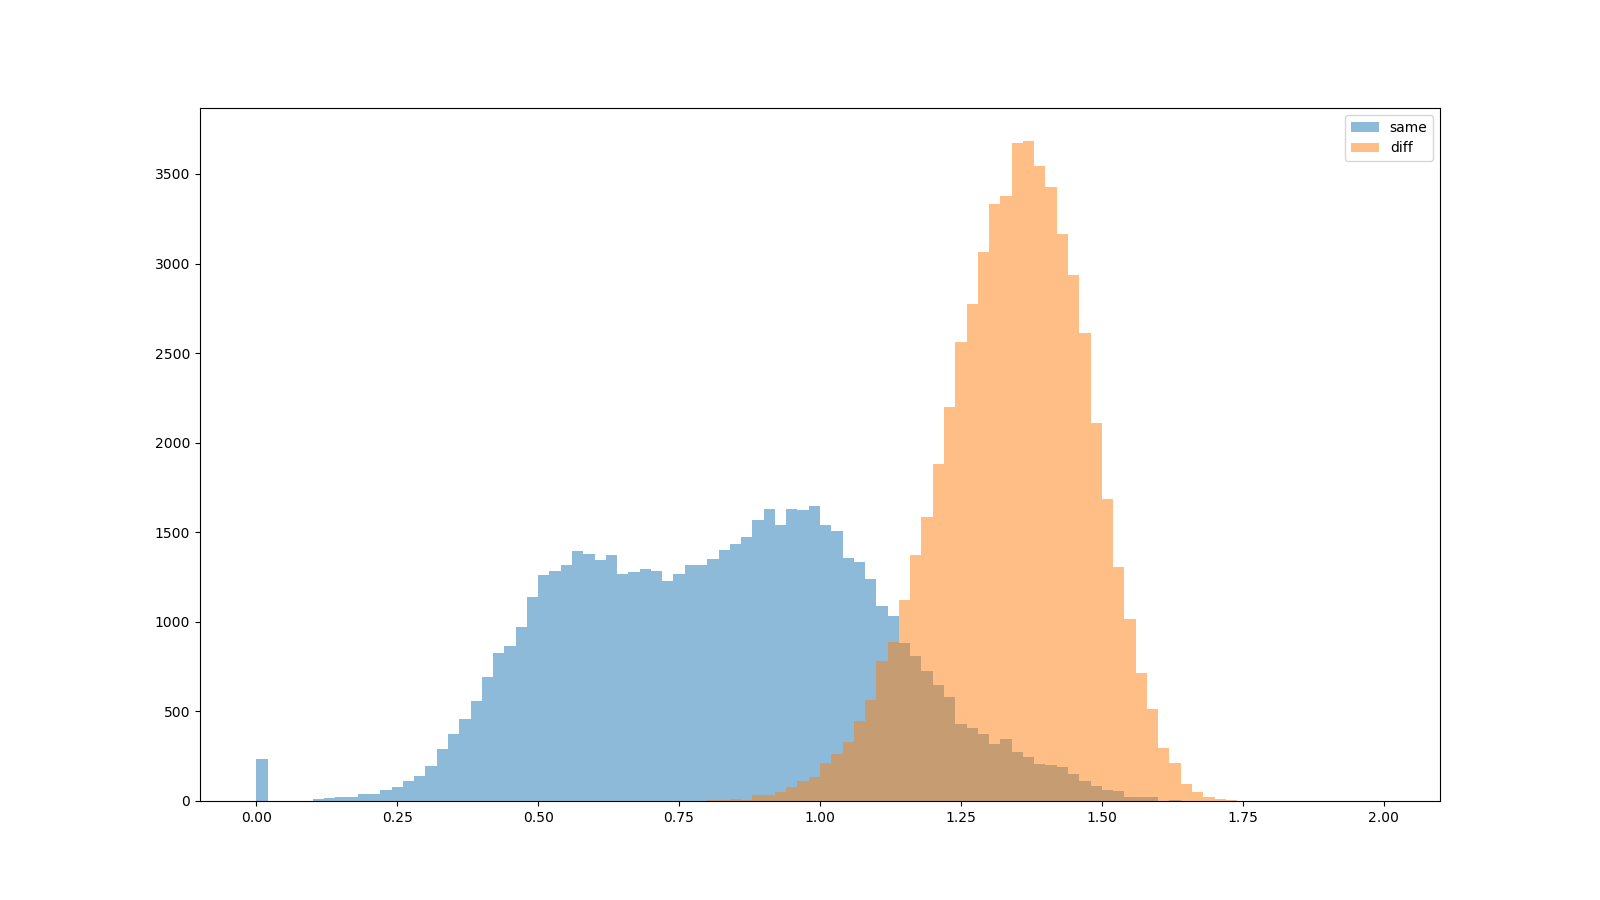
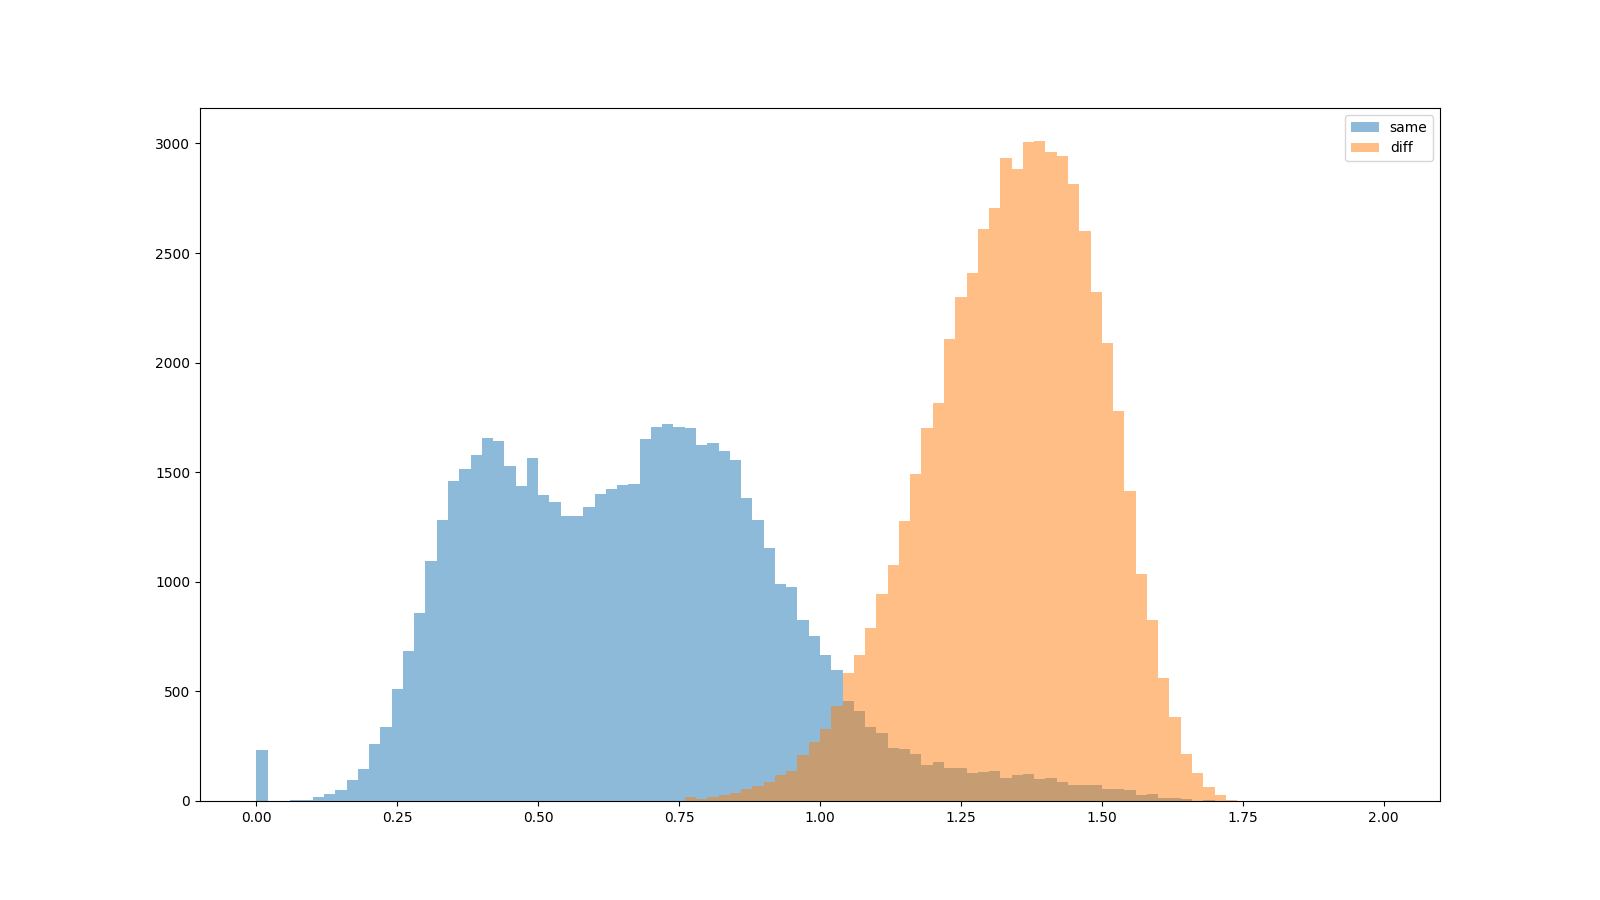
final version for alan

diff --git a/Code/main_test.py b/Code/main_test.py
@@ -32,58 +32,41 @@ if __name__ == "__main__":
     scheduler_name = 'multistep'
     # sgd or None(adam) or rmsprop
     optimizer_type = None
-    num_epochs = 0
+    num_epochs = 20
     eval_every = 1000
     # margin for triplet loss
     margin=2
     # name to open or save the model
-    name = 'facenet_best.pth'
+    name = 'arcface1.pt'
     load_local_model = False
 
     # os.environ['CUDA_LAUNCH_BLOCKING']='1'
 
     # device: cpu or cuda
-    os.environ['CUDA_VISIBLE_DEVICES']='3' # specify which gpu you want to use
-    # device = torch.device('cuda:0' if torch.cuda.is_available() else 'cpu')
-    device = torch.device('cpu')
+    os.environ['CUDA_VISIBLE_DEVICES']='2' # specify which gpu you want to use
+    device = torch.device('cuda:0' if torch.cuda.is_available() else 'cpu')
     print("Device:",device)
 
-    # read scv
-    df_train = pd.read_csv('../Data/train2.csv')
-    df_valid = pd.read_csv('../Data/valid.csv')
     df_eval1 = pd.read_csv('../Data/eval_same.csv')
     df_eval2 = pd.read_csv('../Data/eval_diff.csv')
     df_test = pd.read_csv('../Data/test.csv')
 
-    # label_to_samples
-    label_to_samples = samples(df_train)
-
-    # dataset, sampler and dataloader
-    train_dataset = TripletDataset(df_train, mode='train', label_to_samples=label_to_samples)
-    valid_dataset = TripletDataset(df_valid, mode='valid')
     eval_dataset1 = TripletDataset(df_eval1, mode='eval')
     eval_dataset2 = TripletDataset(df_eval2, mode='eval')
     test_dataset = TripletDataset(df_test, mode='test')
 
-    train_sampler = get_Sampler(sampler, train_dataset, p=8, k=16)
-    train_loader = DataLoader(train_dataset, batch_size=BATCH_SIZE, num_workers=NUM_WORKERS, drop_last=False, sampler=train_sampler)
-    valid_loader = DataLoader(valid_dataset, batch_size=BATCH_SIZE, num_workers=NUM_WORKERS, drop_last=False)
     eval_loader1 = DataLoader(eval_dataset1, batch_size=BATCH_SIZE, num_workers=NUM_WORKERS, drop_last=False)
     eval_loader2 = DataLoader(eval_dataset2, batch_size=BATCH_SIZE, num_workers=NUM_WORKERS, drop_last=False)
     test_loader = DataLoader(test_dataset, batch_size=BATCH_SIZE, num_workers=NUM_WORKERS, drop_last=False)
 
-
     # model, optimizer, scheduler
-    facenet = FaceNet(model_name=model_name, pool=pool, embedding_size=embedding_size, dropout=dropout, pretrain=pretrain, device=device).to(device)
-    # facenet = torch.nn.DataParallel(facenet, device_ids=[0,1])
-    optimizer = get_Optimizer(facenet, optimizer_type, lr, weight_decay) # optimizer
-    if load_local_model:
-        load(name, facenet, optimizer)
-        temp = name.split('.')
-        name = temp[0] + '_new.' + temp[1]
-    scheduler = get_Scheduler(optimizer, lr, scheduler_name) # scheduler
+    # facenet = FaceNet(model_name=model_name, pool=pool, embedding_size=embedding_size, dropout=dropout, pretrain=pretrain, device=device).to(device)
+    # optimizer = get_Optimizer(facenet, optimizer_type, lr, weight_decay) # optimizer
+    # load(name, facenet, optimizer)
 
-    # train
-    # train(facenet,train_loader,valid_loader,eval_loader1,eval_loader2,optimizer,scheduler,num_epochs,eval_every,margin,device,name)
+    facenet = torch.load('../Model/arcface1.pt')
+    device = torch.device('cpu')
+
+    # evaluate & test
     dist_threshold = evalulate(facenet, eval_loader1, eval_loader2, device)
-    test(facenet,test_loader,dist_threshold,device)
+    # test(facenet,test_loader,dist_threshold,device)

diff --git a/Code/train.py b/Code/train.py
@@ -6,14 +6,26 @@ from test import result
 import matplotlib.pyplot as plt
 import numpy as np
 
-def save(save_path, model, optimizer):
+# def save(save_path, model, optimiz er):
+#     if save_path==None:
+#         return
+#     torch.save({
+#         'model_state_dict': model.state_dict(),
+#         'optimizer_state_dict': optimizer.state_dict()
+#     }, '../Model/' + save_path)
+#     print('Model saved to ==> {../Model/save_path}')
+
+def save(save_path, model, optimizer=None, scheduler=None):
     if save_path==None:
         return
-    torch.save({
-        'model_state_dict': model.state_dict(),
-        'optimizer_state_dict': optimizer.state_dict()
-    }, '../Model/' + save_path)
-    print('Model saved to ==> {../Model/save_path}')
+    checkpoint = {
+        'model': model,
+        'optimizer': optimizer,
+        'scheduler': scheduler,
+    }
+    save_path = '../Model/' + save_path
+    torch.save(checkpoint, save_path)
+    print(f'Model saved to ==> {save_path}')
 
 def load(name, model, optimizer):
     checkpoint = torch.load('../Model/' + name)
@@ -33,11 +45,15 @@ def train(model,train_loader,valid_loader,valid_loader1,valid_loader2,optimizer,
     best_IOU = 1
     #train_average_margin = AverageMeter()
     total_step = len(train_loader)*num_epochs
+    count = 0
     print(f'total steps: {total_step}')
     for epoch in range(num_epochs):
         print(f'epoch {epoch+1}')
         #losses = []
         for _, data in enumerate(tqdm(train_loader)):
+            if count > 0:
+                break
+            count += 1
             model.train()
             inputs = data['image'].to(device) # inputs
             target = data['target'].to(device) # targets
@@ -68,6 +84,8 @@ def train(model,train_loader,valid_loader,valid_loader1,valid_loader2,optimizer,
         dist2 = result(model,valid_loader2,device)
         same_hist = plt.hist(dist1, 100, range=[np.floor(np.min([dist1.min(), dist2.min()])),np.ceil(np.max([dist1.max(), dist2.max()]))], alpha=0.5, label='same')
         diff_hist = plt.hist(dist2, 100, range=[np.floor(np.min([dist1.min(), dist2.min()])),np.ceil(np.max([dist1.max(), dist2.max()]))], alpha=0.5, label='diff')
+        plt.legend(loc='upper right')
+        plt.savefig('../Result/distribution_epoch'+str(epoch+1)+'.png')
         difference = same_hist[0] - diff_hist[0]
         difference[:same_hist[0].argmax()] = np.Inf
         difference[diff_hist[0].argmax():] = np.Inf
@@ -75,8 +93,6 @@ def train(model,train_loader,valid_loader,valid_loader1,valid_loader2,optimizer,
         overlap = np.sum(dist1>=dist_threshold) + np.sum(dist2<=dist_threshold)
         IOU = overlap / (dist1.shape[0] * 2 - overlap)
         print('dist_threshold:',dist_threshold,'overlap:',overlap,'IOU:',IOU)
-        plt.legend(loc='upper right')
-        plt.savefig('../Result/distribution_epoch'+str(epoch+1)+'.png')
         plt.clf()
 
         epoch_loss_list['train'].append(train_loss.avg)
@@ -94,7 +110,7 @@ def train(model,train_loader,valid_loader,valid_loader1,valid_loader2,optimizer,
 
         if IOU < best_IOU:
             best_IOU = IOU
-            save(name, model, optimizer)
+            save(name, model, optimizer, scheduler)
 
         train_loss.reset()
         valid_loss.reset()

diff --git a/Code/model.py b/Code/model.py
@@ -116,3 +116,69 @@ class FaceNet(nn.Module):
         # neck
         embeddings = self.neck(x)
         return embeddings
+
+# for arcface
+
+
+class ArcMarginProduct(nn.Module):
+    def __init__(self, in_features, out_features):
+        super().__init__()
+        self.weight = nn.Parameter(torch.Tensor(out_features, in_features))
+        self.reset_parameters()
+
+    def reset_parameters(self):
+        nn.init.xavier_uniform_(self.weight)
+
+    def forward(self, features):
+        cosine = F.linear(F.normalize(features), F.normalize(self.weight))
+        return cosine
+
+class FaceNet2(nn.Module):
+    def __init__(self, num_classes, model_name=None, pool=None, dropout=0.0, embedding_size=512, device='cuda', pretrain=True):
+        super(FaceNet2, self).__init__()
+        # Backbone (backbone)
+        # three models choice 1. SE-ResNeXt101 2.EfficientNetB7 3.InceptionResnetV1 (Pre-trained for face recog.)
+        self.model_name = model_name
+
+        # model
+        if(model_name=='resnet'):
+            self.model = SEResNeXt101(pretrain)
+        elif(model_name=='effnet'):
+            self.model = EfficientNetEncoderHead(depth=3, pretrain=pretrain)
+        else:
+            self.model = InceptionResnet(device, pool=pool, dropout=dropout, pretrain=pretrain)
+
+        # global pooling
+        if(pool == "gem"):
+            # Generalizing Pooling
+            self.global_pool = GeM(p_trainable=True)
+        else:
+            # global average pooling
+            self.global_pool = nn.AdaptiveAvgPool2d(1)
+        # neck
+        self.neck = nn.Sequential(
+                nn.Linear(self.model.out_features, embedding_size, bias=True),
+                nn.BatchNorm1d(embedding_size, eps=0.001),
+            )
+        self.dropout = nn.Dropout(p=dropout)
+
+        self.head = ArcMarginProduct(embedding_size, num_classes)
+
+    def forward(self, x):
+        # backbone
+        if self.model_name == None:
+            embeddings = self.model(x)
+            logits = self.head(embeddings)
+            return {'logits': logits, 'embeddings': embeddings}
+
+        x = self.model(x)
+        # global pool
+        x = self.global_pool(x)
+        x = self.dropout(x)
+        # change the output from cnn to a vector first
+        x = x[:,:,0,0]
+        # neck
+        embeddings = self.neck(x)
+        # vector with num_classes
+        logits = self.head(embeddings)
+        return {'logits': logits, 'embeddings': embeddings}

diff --git a/Code/util.py b/Code/util.py
@@ -26,6 +26,7 @@ def get_Scheduler(optimizer, lr, scheduler_name=None):
     elif(scheduler_name=='cosine'):
         return optim.lr_scheduler.CosineAnnealingLR(optimizer, T_max=1000)
     elif(scheduler_name=='multistep'):
-        return optim.lr_scheduler.MultiStepLR(optimizer, milestones=[10,20,30,40,45], gamma=0.5)
+        # return optim.lr_scheduler.MultiStepLR(optimizer, milestones=[3,13,30], gamma=0.3)
+        return optim.lr_scheduler.MultiStepLR(optimizer, milestones=[6,20,40], gamma=0.1)
     else:
-        return optim.lr_scheduler.StepLR(optimizer, step_size=1, gamma=0.9)
+        return optim.lr_scheduler.StepLR(optimizer, step_size=1, gamma=0.99)

diff --git a/Code/test.py b/Code/test.py
@@ -56,6 +56,11 @@ def evalulate(model, eval_loader1, eval_loader2, device):
     dist1 = result(model,eval_loader1, device)
     # diff target pairs
     dist2 = result(model,eval_loader2, device)
+
+    with open('test.npy', 'wb') as f:
+        np.save(f, dist1)
+        np.save(f, dist2)
+
     same_hist = plt.hist(dist1, 100, range=[np.floor(np.min([dist1.min(), dist2.min()])),np.ceil(np.max([dist1.max(), dist2.max()]))], alpha=0.5, label='same')
     diff_hist = plt.hist(dist2, 100, range=[np.floor(np.min([dist1.min(), dist2.min()])),np.ceil(np.max([dist1.max(), dist2.max()]))], alpha=0.5, label='diff')
     difference = same_hist[0] - diff_hist[0]

diff --git a/Code/loss.py b/Code/loss.py
@@ -173,7 +173,8 @@ def batch_all_triplet_loss(labels, embeddings, margin, squared=False, epoch=0):
 
     # invalid = torch.nonzero(triplet_loss == 0).size(0)
 
-    triplet_loss[triplet_loss < margin * (1.25 - epoch * 0.01)] = 0
+    # triplet_loss[triplet_loss < margin * (1.3 - epoch%30 * 0.01)] = 0
+    triplet_loss[triplet_loss < margin] = 0
 
     # print('invalid:', invalid)
     # print('easy:', torch.nonzero(triplet_loss == 0).size(0))
